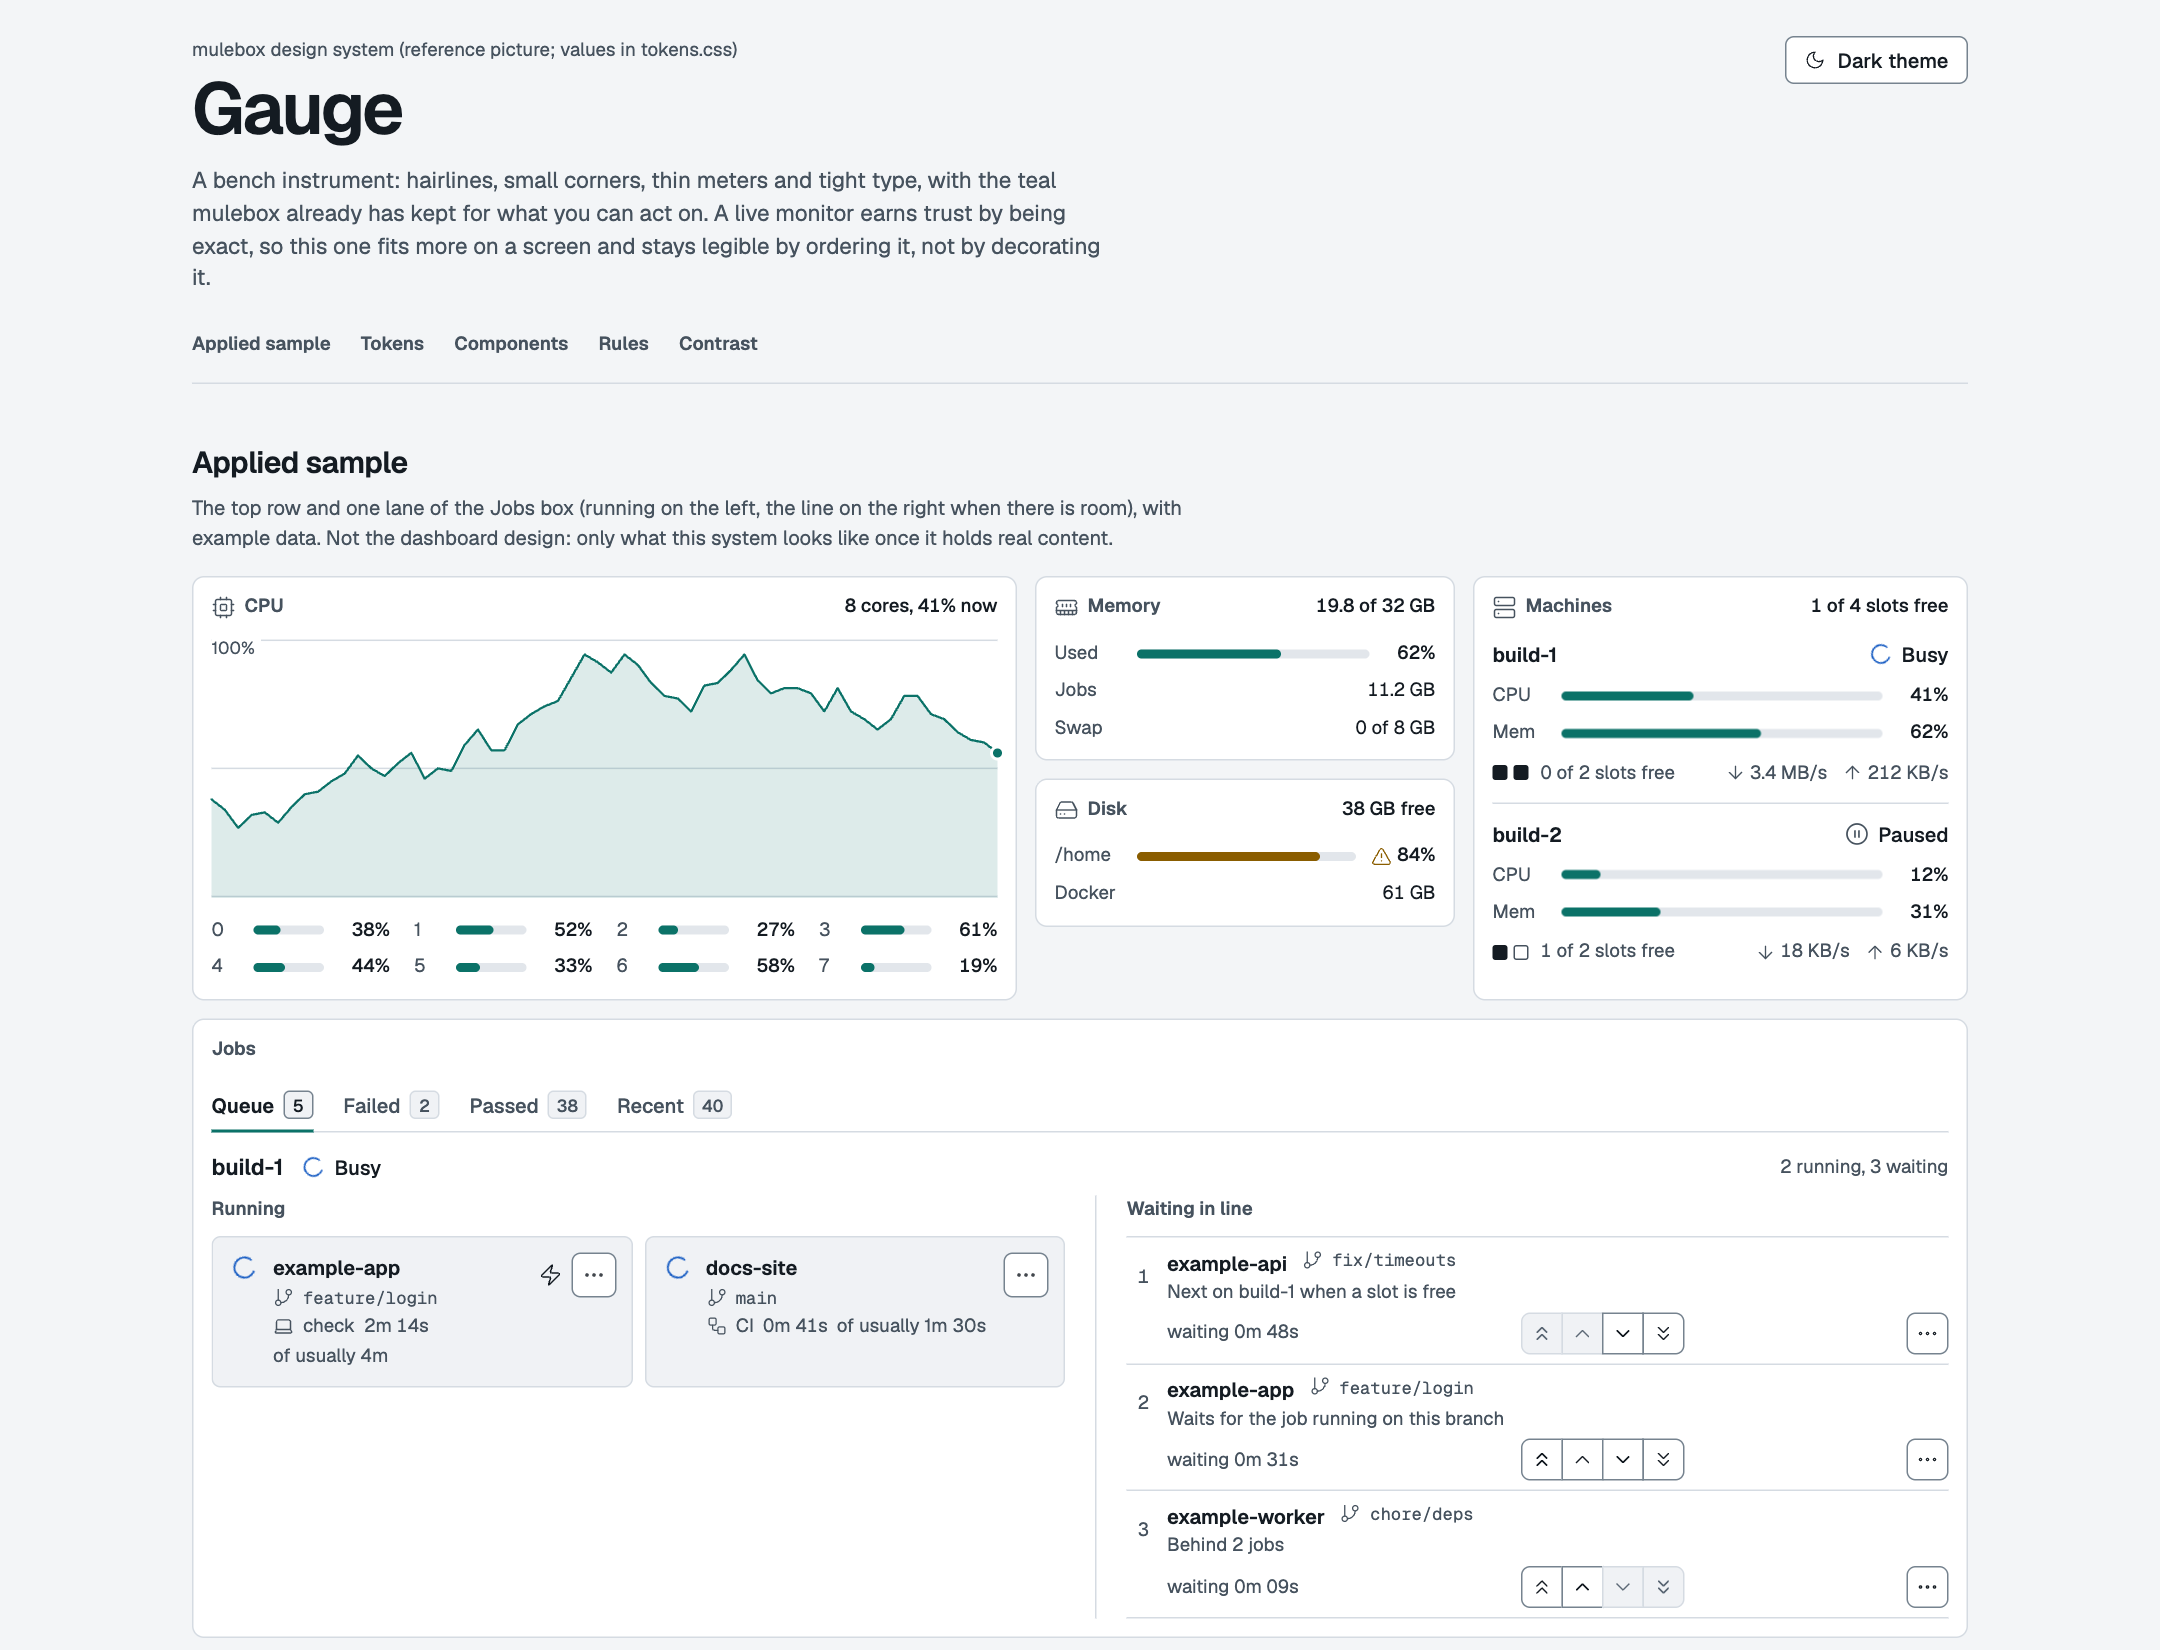
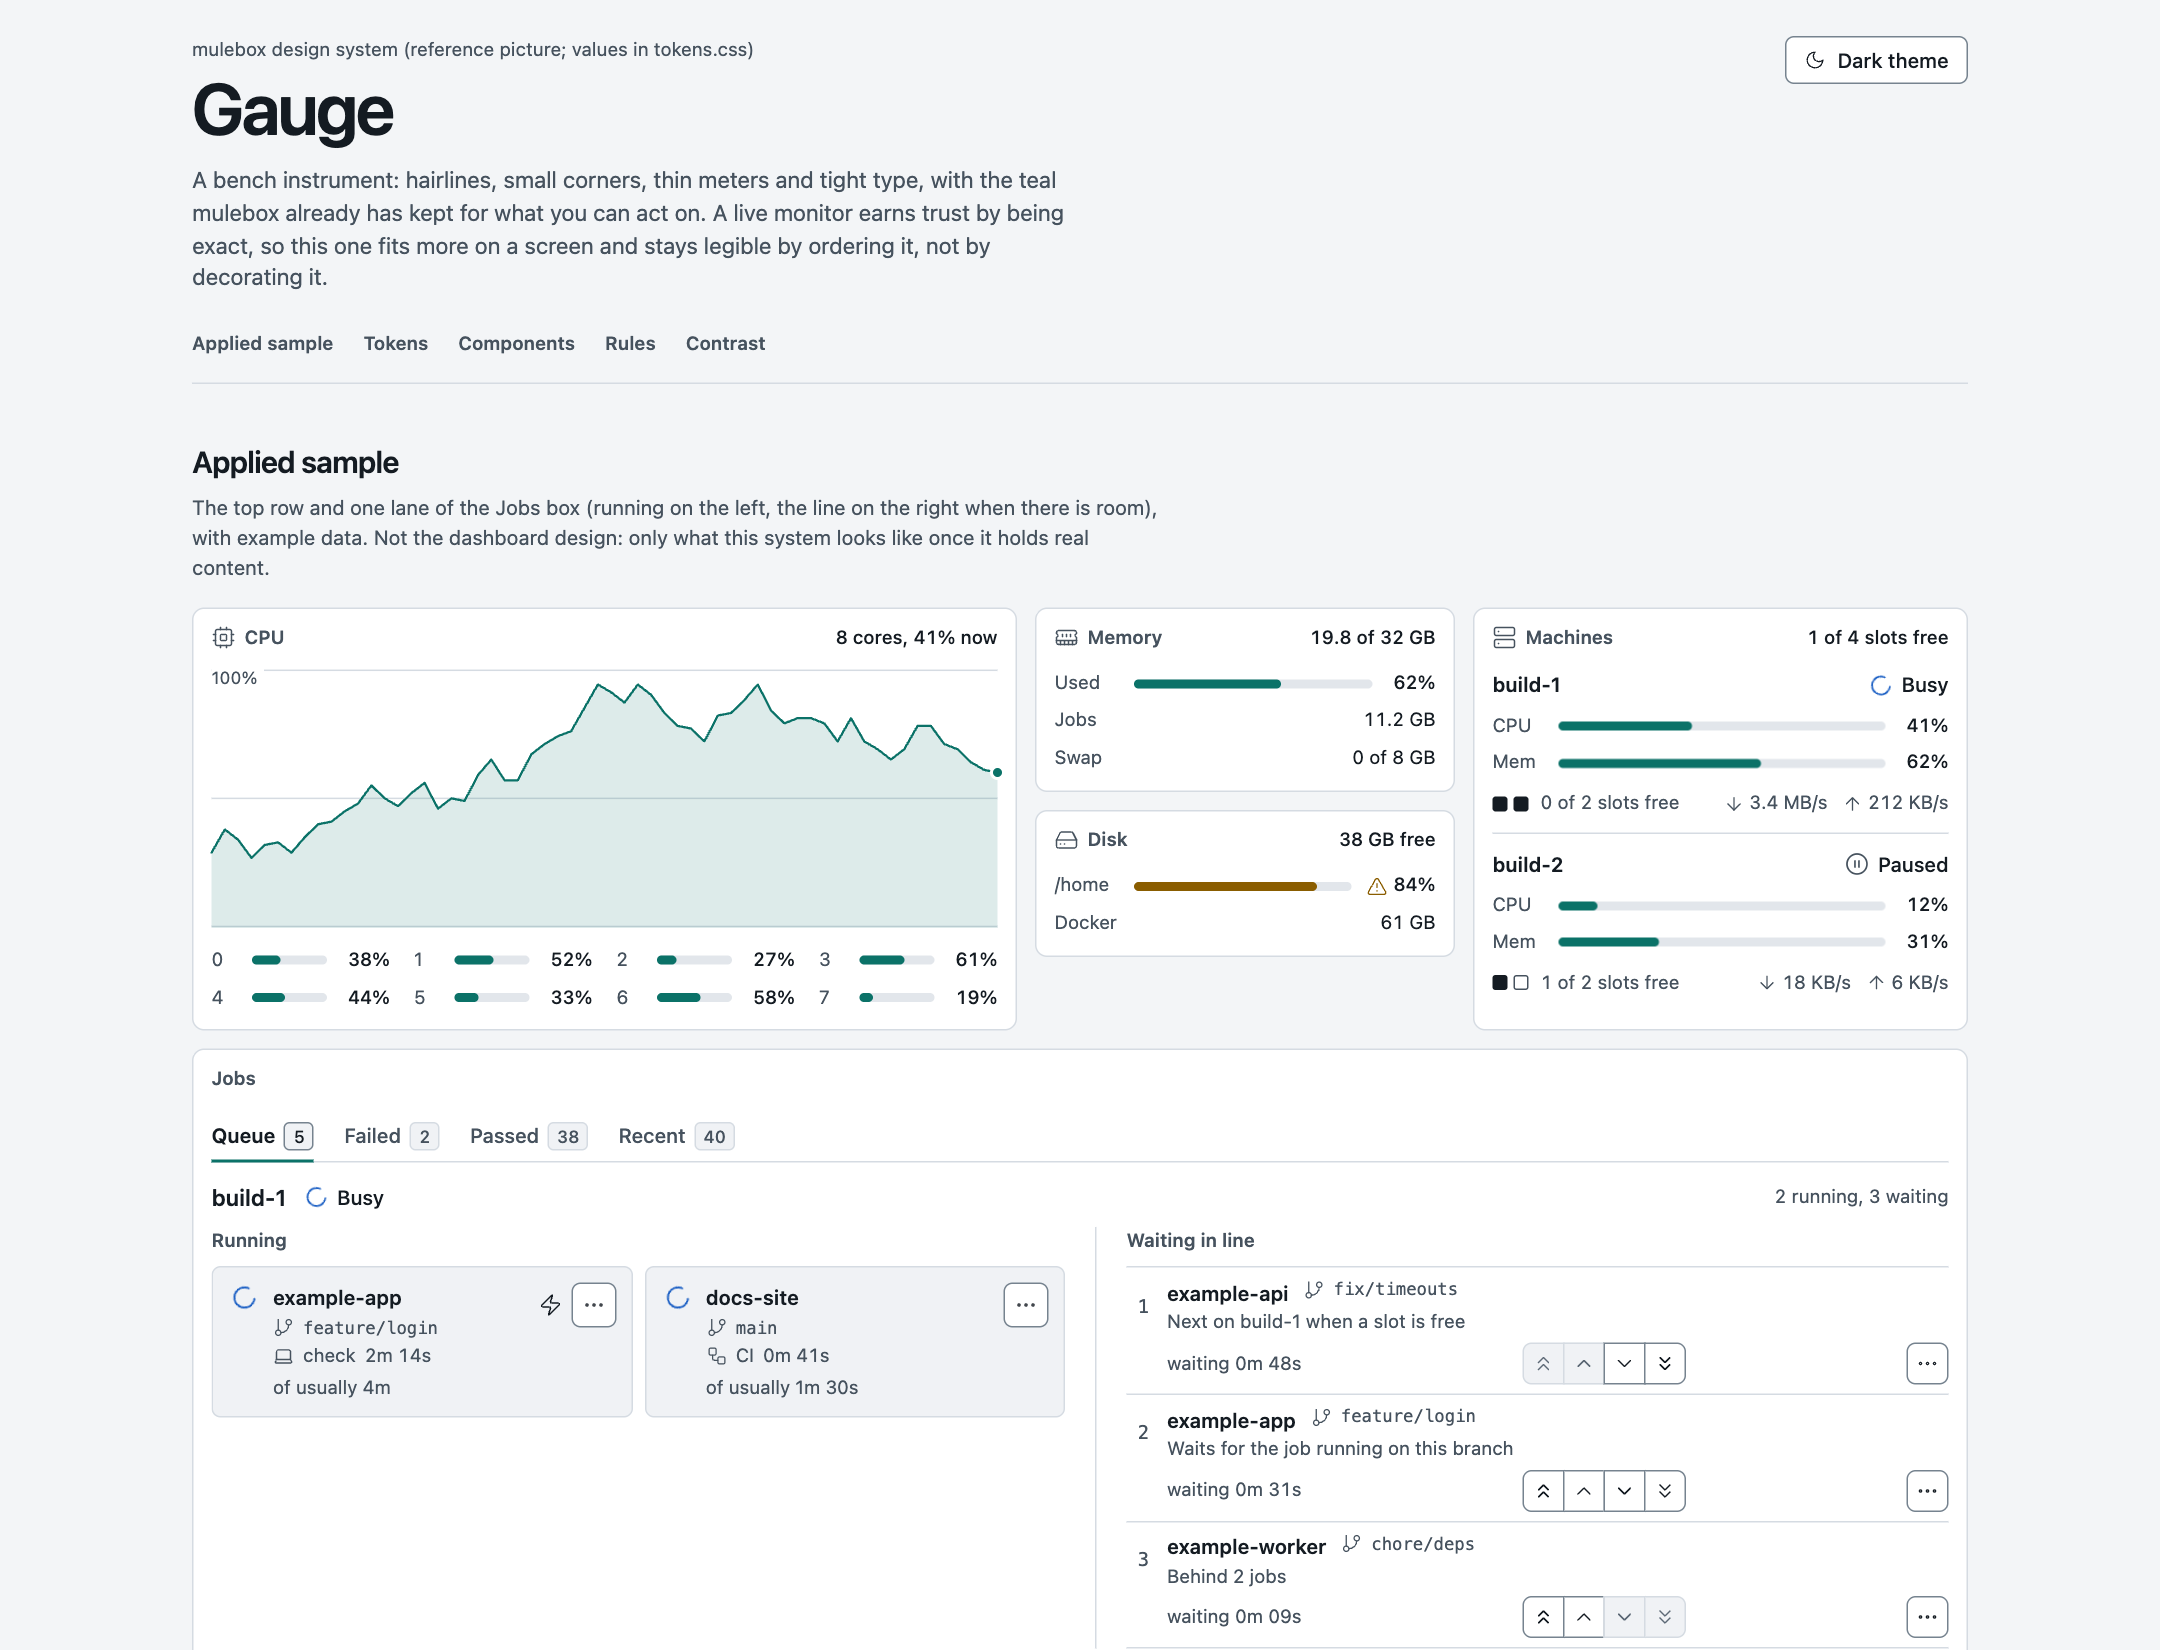
1.50.3: README on the newest features, every picture retaken

diff --git a/README.md b/README.md
@@ -327,6 +327,9 @@ All of it, step by step: [Dashboard on the LAN](docs/install.md#dashboard-on-the
   recent result, failures included. `--again` forces a run.
 - **Failures read fast.** A failed job ends with a short summary of the error and the stage it failed
   in (`logs <id> --summary`), with a hint when the failure reads like a lost network.
+- **Every error says how to fix it.** Each error mulebox gives, on the dev machine or the node, has a
+  stable code and a `fix:` line with the command that fixes it, also as JSON with `--json`; a job that
+  could not start ends its log the same way. The codes are listed in docs/agents.md.
 - **Rerun from where it failed.** A compose job that failed keeps its containers on the node for 15
   minutes; after a fix, `mulebox check --from-stage command` (or `setup`, `install`) runs again
   there with no new images, services or database load. A change to what those depend on runs it from
@@ -517,6 +520,12 @@ From the CLI or the dashboard, with no sign-in needed through the tunnel:
   its own, found and stopped after a worker restart, and its GitHub runners are launchd agents.
 - **Survives restarts**: services come back by themselves after a reboot; a running job ends as
   `interrupted` (exit 75) and is not run again by itself, and waiting jobs run.
+- **Survives power cuts**: the store writes each answer to disk before giving it, a worker tells a
+  cut from a kill and redoes setups that may not have reached the disk, and a branch folder git
+  cannot use any more is made again. Set the node's BIOS to "restore on AC power loss".
+- **Upgrades that go back by themselves**: each upgrade gets a venv of its own and is on trial for
+  a minute; if a service stops or the worker cannot reach its coordinator, the version before comes
+  back with its services, and the upgrade says why.
 - **On your own machines**: jobs travel over ssh to machines you own; no cloud service, no port open
   to the internet.
 - **Private by default**: files that look like secrets are never uploaded, and logs are scrubbed of
@@ -537,7 +546,7 @@ command prints. The ones you and your agents use:
 | Command | What it does |
 | --- | --- |
 | `mulebox init` | write `.mulebox.yml` from the project's own files |
-| `mulebox check [job]` | run a job from `.mulebox.yml` (default `check`) on a node; exits with its exit code. `--detach` returns at once with the id, `--again` runs even on files already tested, `--on <node>` on that node alone, `--fewer-tests "<why>"` lets a pass with fewer tests count, `--from-stage <stage>` reruns a failed compose job in its kept containers |
+| `mulebox check [job]` | run a job from `.mulebox.yml` (default `check`) on a node; exits with its exit code. `--detach` returns at once with the id, `--again` runs even on files already tested, `--on <node>` on that node alone, `--fewer-tests "<why>"` lets a pass with fewer tests count, `--from-stage <stage>` reruns a failed compose job in its kept containers, `--keep <path>` brings files it made back for `mulebox fetch` |
 | `mulebox run -- <cmd>` | run any command there, once; `--in <service>` runs it in a compose service, `--bare` without setup and containers, `--take <path>` brings a file it made back |
 | `mulebox hold <node> [-- <cmd>]` | hold a node for yourself: it waits in line, then no job starts there until your command ends or Ctrl-C; `--slots N` for part of it, `--for 30m`, `mulebox release <id>` |
 | `mulebox fetch <id>` | bring the files a job kept (`keep:`, `--keep <path>`) into `.mulebox/files/<id>/` |

diff --git a/PROJECT_LOG.md b/PROJECT_LOG.md
@@ -8,6 +8,9 @@ Entry format:
     ## <version> - <YYYY-MM-DD> - <patch|minor|major>
     - what changed and why (one line each)
 
+## 1.50.3 - 2026-11-26 - patch
+- README: errors with a code and a fix, power cuts, upgrades on trial, `--keep`; every picture retaken on 1.50 (tools/screenshots.py).
+
 ## 1.50.2 - 2026-11-26 - patch
 - A waiting hold of some slots says "once its slots are free" (coordinator/views.py).
 - docs/phases.md: M23.10 done on the real node.
